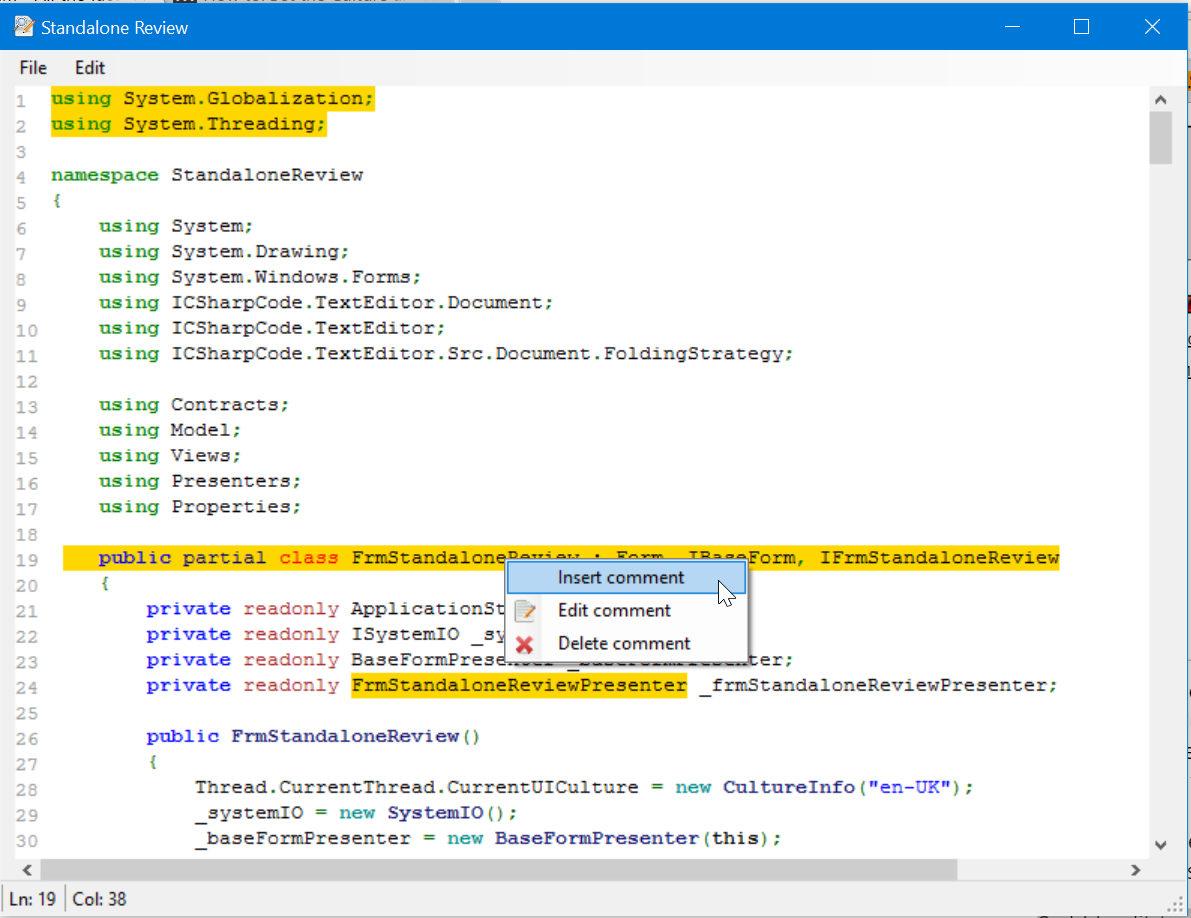
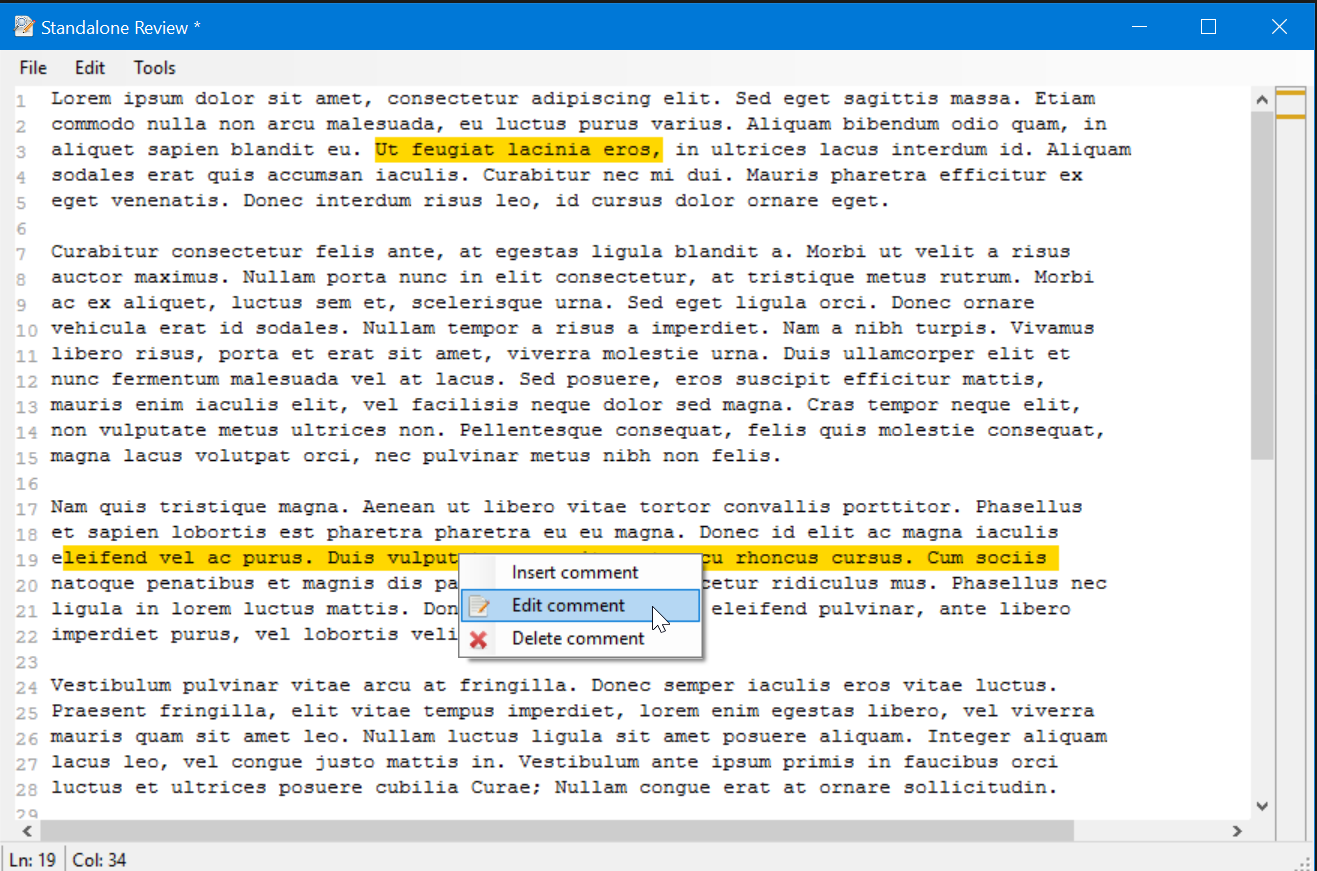
Updated screenshot of main screen and Readme.md

Changed region(s): [[0.0, 0.0, 1.0, 1.0]]

diff --git a/Readme.md b/Readme.md
@@ -10,7 +10,7 @@ Task Lists
 ----
 - [ ] Open multiple files in a Review
 - [x] Manually choose the locale used for the application
-- [ ] Show mini-markers for where the comments are in the file
+- [x] Show mini-markers for where the comments are in the file
 - [ ] Open Review 
 - [ ] Use richtext to format the review
 - [ ] Save the review as HTML
